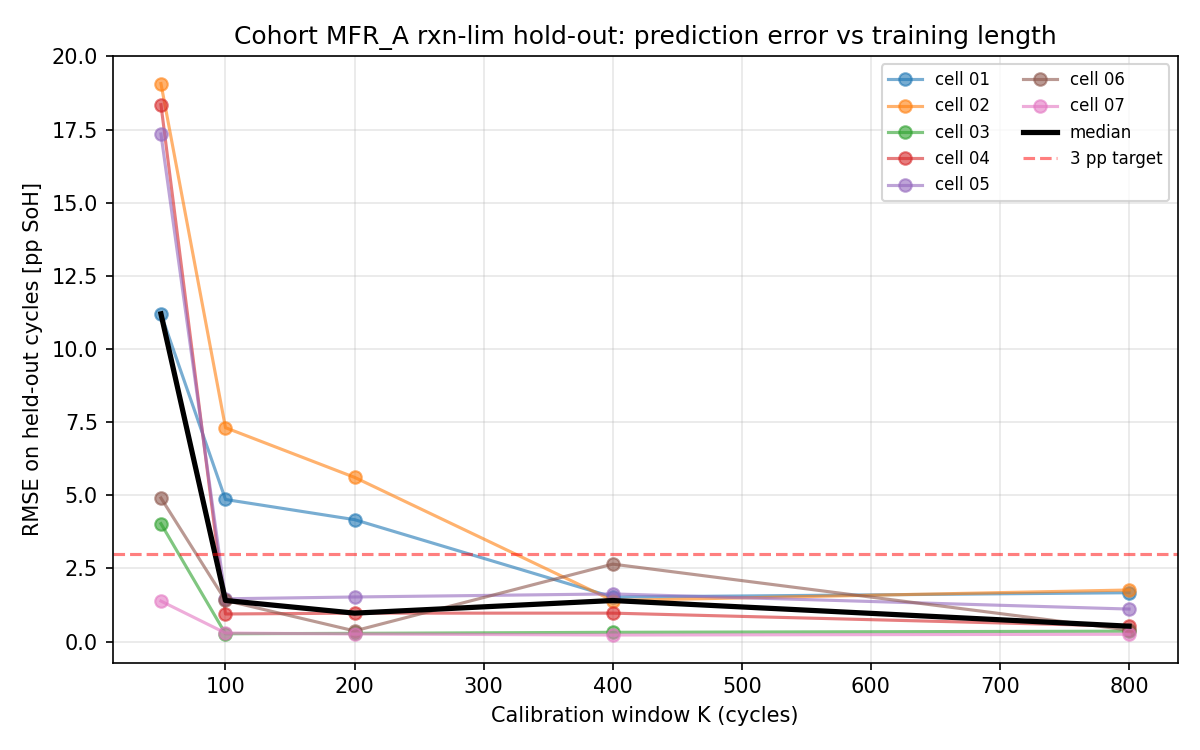
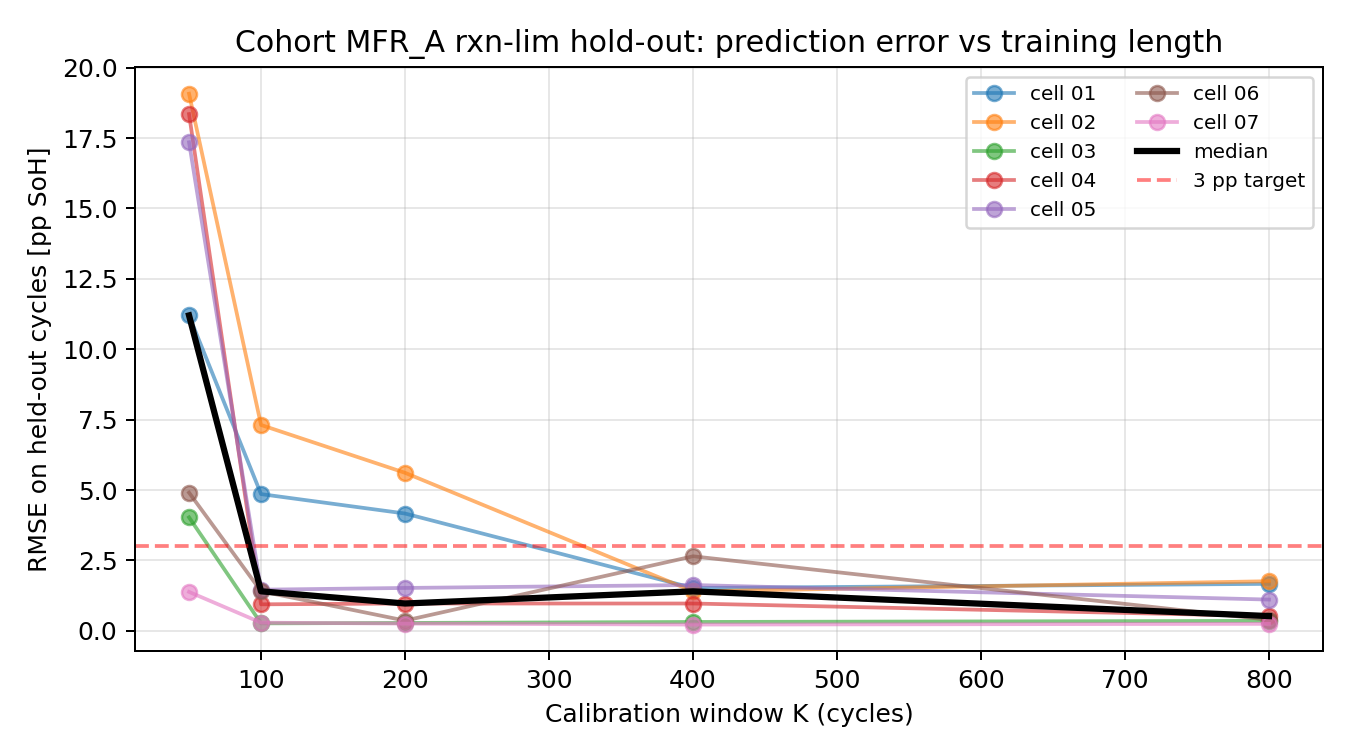
Fix layout + add concrete cycle-count and time savings
- Match Fig 1a aspect ratio to Fig 1b (both 7.5x4.2) so they render at
  identical height side-by-side
- Result section now states 400 vs ~1200 measured cycles per cell
  (3x reduction, ~4 months of test-lab time saved at 0.25 C), plus
  12x reduction for the 5/7 cells that converge at K=100
- Fix two header/footer overlap bugs from over-aggressive negative vspace

Changed region(s): [[0.0, 0.0307, 0.9867, 0.9813]]

diff --git a/paper/pybamm_conf_abstract.tex b/paper/pybamm_conf_abstract.tex
@@ -33,7 +33,7 @@ second-life LFP cells:\\ how few cycles does PyBaMM's reaction-limited SEI need?
 \author{\normalsize \textbf{\underline{Krishna Chaitanya Vaddepally}}$^{\dagger}$\\
   \small $^{\dagger}$Presenting author. Turno (Blubble Pvt.\ Ltd.), India.\\
   \small \texttt{[email redacted]}}
-\date{\vspace{-0.5cm}\small \textbf{Category:} Physics-based Models
+\date{\vspace{-0.25cm}\small \textbf{Category:} Physics-based Models
       \quad $\bullet$ \quad \textbf{Preference:} Oral (poster acceptable)}
 
 \begin{document}
@@ -43,11 +43,10 @@ second-life LFP cells:\\ how few cycles does PyBaMM's reaction-limited SEI need?
 \vspace{-1.0em}
 \noindent\textbf{Motivation.}
 Second-life repurposing of used lithium-iron-phosphate (LFP) cells for
-stationary battery-energy-storage applications is bottlenecked by
-characterisation cost: pack builders must estimate remaining useful life
-(RUL) of cells for which no beginning-of-life data exists and for which
-laboratory cycling time is limited. We ask a direct engineering
-question: \emph{how many measured cycles does a physics-based degradation
+stationary energy storage is bottlenecked by characterisation cost:
+pack builders must estimate remaining useful life (RUL) with no
+beginning-of-life data and limited laboratory cycling time. We ask:
+\emph{how many measured cycles does a physics-based degradation
 model need before it can predict the remaining life of a used cell?}
 
 \vspace{-0.3em}
@@ -69,12 +68,13 @@ filter.
 \noindent\textbf{Result.}
 Prediction RMSE on held-out cycles drops from a median of 11.2\,pp SoH at
 $K=50$ to $1.4$\,pp at $K=100$ and $0.5$\,pp at $K=800$ (Fig.~\ref{fig:rmse}).
-At $K=400$ all 7/7 cells achieve
-$\text{RMSE}_{\text{test}} < 3$\,pp SoH --- a $65$--$75\%$ reduction in
-required cycling time versus full-trajectory calibration. Five of seven
-cells already converge at $K=100$ with end-of-trajectory error below
-$0.4$\,pp (Fig.~\ref{fig:cell07}). The remaining two exhibit a
-post-formation recovery transient (positive apparent fade slope across
+At $K=400$, all 7/7 cells achieve $\text{RMSE}_{\text{test}} < 3$\,pp
+SoH: \textbf{400 vs.\ $\approx$1200 measured cycles per cell (3$\times$
+reduction, $\approx$4 months of test-lab time saved at 0.25\,C).} Five
+of seven cells already converge at $K=100$ with end-of-trajectory error
+below $0.4$\,pp (Fig.~\ref{fig:cell07}) --- a \textbf{12$\times$
+reduction} for that sub-cohort. The remaining two exhibit a
+post-formation recovery transient (positive apparent slope across
 cycles 50--200) and require $K \geq 400$; this signal itself classifies
 cells for correct calibration windowing.
 
@@ -110,7 +110,6 @@ $\log_{10}(j_{\text{SEI}})$ uses cached 10-cycle PyBaMM runs. Scripts
 released at
 \url{https://github.com/VKC-Turno/PyBaMM-Neural-ODE-RUL}.
 
-\vspace{-0.6em}
 {\small
 \noindent\textbf{Acknowledgements.} The author thanks Sunil Kumar Rawat
 (Imperial College London) for developing the initial cell parameter